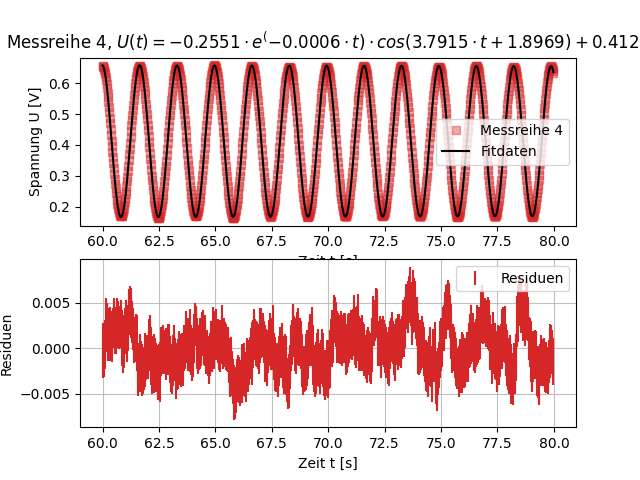
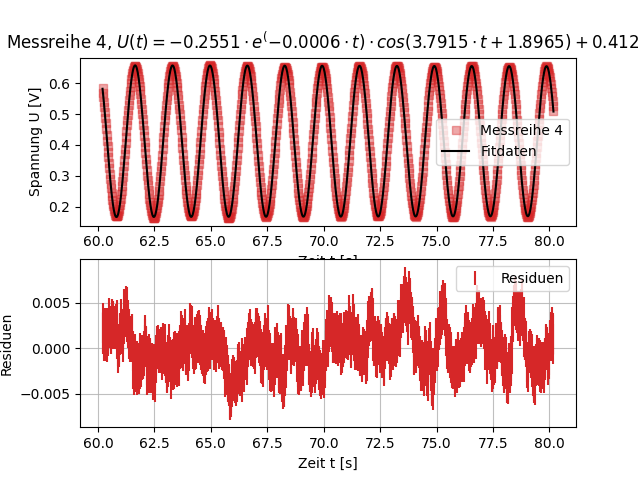
g mit uncertainties

diff --git a/V2_Mechanik/Valentin/auswertung_valentin.py b/V2_Mechanik/Valentin/auswertung_valentin.py
@@ -19,19 +19,19 @@ messung_rauschen     = cassy_daten_rauschen.messung(1)
 print(CassyDaten(DATEN_Messreihen).info())
 print(cassy_daten_rauschen.info())
 
-def auswertung_messreihe(DATEN, i, rausch_sigma=None, trim_vorne=0, trim_hinten=-1, plot_intervall=[3000,4000]):
+def auswertung_messreihe(DATEN, i, rausch_sigma=None, fit_trim=[0,-1], plot_intervall=[3000,4000]):
 
     print(f'\nAuswertung {i}:')
     messung = CassyDaten(DATEN).messung(i)
     
-    t = messung.datenreihe('t').werte[trim_vorne:trim_hinten]
-    U = messung.datenreihe('U_B1').werte[trim_vorne:trim_hinten]
+    t = messung.datenreihe('t').werte[fit_trim[0]:fit_trim[1]]
+    U = messung.datenreihe('U_B1').werte[fit_trim[0]:fit_trim[1]]
 
     def f(t, A, B, w, phi, y_0):
         return A * np.exp(-B * t) * np.cos(w * t + phi) + y_0
     
     popt, pcov = curve_fit(f, t, U, p0=[U.max(), 0.1, 2 * np.pi, 0, np.mean(U)], sigma=rausch_sigma)
-    perr = np.sqrt(np.diag(pcov))
+    werr = np.sqrt(pcov[2,2])
     
     A_fit, B_fit, w_fit, phi_fit, y_0_fit = popt
     T_fit = 2 * np.pi / w_fit
@@ -47,18 +47,27 @@ def auswertung_messreihe(DATEN, i, rausch_sigma=None, trim_vorne=0, trim_hinten=
     # A_fit, T_fit, phi_fit, B_fit, y_0_fit, T_0, chiq, dof = analyse.fit_gedaempfte_schwingung(t, U, ey=np.ones(len(U)))
     # popt = (A_fit, B_fit, 2 * np.pi / T_fit, phi_fit, y_0_fit)
     
-    print(f'U_0 = {A_fit:.4f}')
-    print(f'delta = {B_fit:.4f}')
-    print(f'w = {2 * np.pi / T_fit:.4f}')
+    # print(f'U_0 = {A_fit:.4f}')
+    # print(f'delta = {B_fit:.4f}')
+    print(f'w = ({w_fit:.4f}+-{werr})')
     print(f'T = {T_fit:.4f}')
-    print(f'phi = {phi_fit:.4f}')
-    print(f'y_0 = {y_0_fit:.4f}')
+    # print(f'phi = {phi_fit:.4f}')
+    # print(f'y_0 = {y_0_fit:.4f}')
     print(f'Chiq / dof = {chiq/dof}')
     print(f'dof = {dof}')
 
     fig, [ax, rs] = plt.subplots(2)
-    ax.plot(t[plot_intervall[0]:plot_intervall[1]], U[plot_intervall[0]:plot_intervall[1]], marker='s', ls='', label=f'Messreihe {i}', color='tab:red', alpha=0.4)
-    ax.plot(t[plot_intervall[0]:plot_intervall[1]], f(t, *popt)[plot_intervall[0]:plot_intervall[1]], color='0', label='Fitdaten')
+    ax.plot(t[plot_intervall[0]:plot_intervall[1]],
+            U[plot_intervall[0]:plot_intervall[1]],
+            marker='s',
+            ls='',
+            label=f'Messreihe {i}',
+            color='tab:red',
+            alpha=0.4)
+    ax.plot(t[plot_intervall[0]:plot_intervall[1]],
+            f(t, *popt)[plot_intervall[0]:plot_intervall[1]],
+            color='0',
+            label='Fitdaten')
     ax.set_xlabel('Zeit t [s]')
     ax.set_ylabel('Spannung U [V]')
     ax.set_title(f'Messreihe {i}, $U(t)={A_fit:.4f}\cdot e^(-{B_fit:.4f}\cdot t)\cdot cos({2 * np.pi / T_fit:.4f}\cdot t + {phi_fit:.4f}) + {y_0_fit:.4f}$')
@@ -76,7 +85,7 @@ def auswertung_messreihe(DATEN, i, rausch_sigma=None, trim_vorne=0, trim_hinten=
     rs.legend()
     fig.savefig(OUTPUT / f'MessungPlusFit{i}')
     plt.close(fig)
-    return w_fit, chiq/dof
+    return w_fit, chiq/dof, werr
 
 def rauschmessung(DATEN, dateiname, trim_vorne, trim_hinten, bins=25):
     messung = CassyDaten(DATEN).messung(1)
@@ -100,20 +109,38 @@ def rauschmessung(DATEN, dateiname, trim_vorne, trim_hinten, bins=25):
 
     return mean, std
 
-mittel, sigma = rauschmessung(DATEN_rauschen, 'Rauschmessung', 10, -1)
+trim_vorne = 10
+mittel, sigma = rauschmessung(DATEN_rauschen, 'Rauschmessung', trim_vorne, -1)
 print(f'U = ({mittel:.4f}+-{sigma:.4f})V')
+
+l1  = un.ufloat(61.5*10, np.sqrt((1/np.sqrt(12))**2 + (0.7/np.sqrt(3))**2))
+l2  = un.ufloat(2.715, 0.05 / np.sqrt(12))
+d_p = un.ufloat(80.0, 0.05 / np.sqrt(12))
+l_p = l1 + l2 + (d_p / 2)
 
 omegas = []
 chiqs  = []
+g_vals = []
+g_errs = []
 for i in range(1, 11):
 
-    fit_daten = auswertung_messreihe(DATEN_Messreihen, i, plot_intervall=[3000,4000], rausch_sigma=sigma)
+    fit_daten = auswertung_messreihe(DATEN_Messreihen, i, plot_intervall=[3000,4000], fit_trim=[trim_vorne,-1], rausch_sigma=sigma)
 
+    w = un.ufloat(fit_daten[0], fit_daten[2])
+    g = w**2 * (l_p / 1000) * (1 + (1/8) * ((d_p/1000) / (l_p/1000))**2)
+    
+    print(g)
+    
     omegas.append(fit_daten[0])
     chiqs.append(fit_daten[1])
+    g_vals.append(g.n)
+    g_errs.append(g.s)
 
 omega_mean = np.mean(omegas)
 omega_std  = np.std(omegas, ddof=1)
-
+g_mean     = np.mean(g_vals)
+g_std      = np.std(g_vals, ddof=1)
 print(f'\nomega = ({omega_mean:.4f}+-{omega_std:.4f}) 1/s')
+print(f'g = {g_mean:.4f}+/-{g_std}')
 print(f'chiq/dof mittel = {np.mean(chiqs):.5f}')
+print('l_p = ', l_p)
